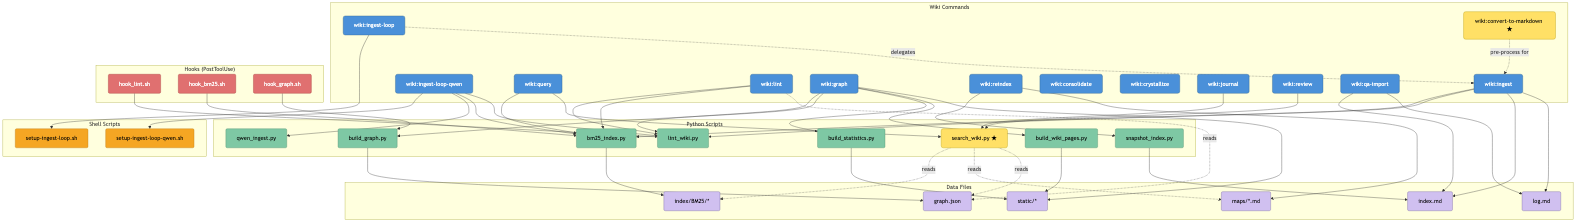
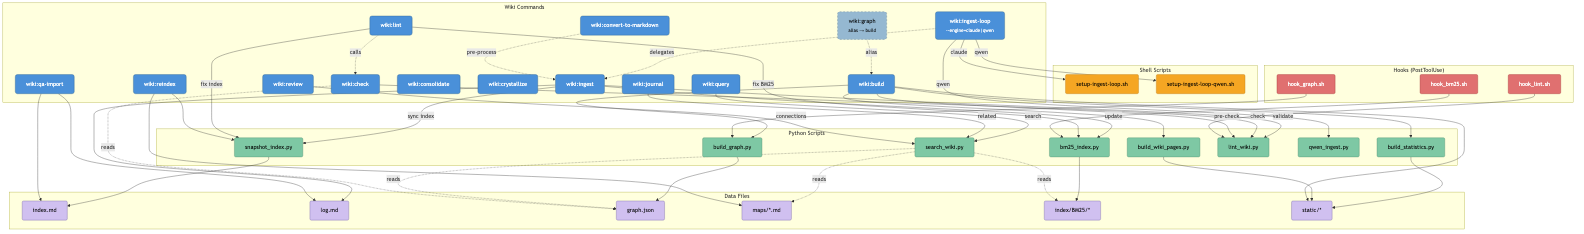
docs: rebuild DAG, update changelog v3.1, refresh wiki.md/README/USERGUIDE
- DAG.mmd + DAG.png rebuilt with check, build, merged ingest-loop, graph alias
- CHANGELOG v3.1 appended
- docs/wiki.md: added check/build sections, merged ingest-loop-qwen into ingest-loop
- README: updated commands table with check, build, merged ingest-loop
- USERGUIDE: comprehensive update with new commands and section renumbering

diff --git a/docs/wiki.md b/docs/wiki.md
@@ -11,12 +11,12 @@
 2. [知识录入命令](#知识录入命令)
    - [wiki:ingest](#wikiingest)
    - [wiki:ingest-loop](#wikiingest-loop)
-   - [wiki:ingest-loop-qwen](#wikiingest-loop-qwen)
 3. [知识查询命令](#知识查询命令)
    - [wiki:query](#wikiquery)
 4. [知识维护命令](#知识维护命令)
+   - [wiki:check](#wikicheck)
    - [wiki:lint](#wikilint)
-   - [wiki:graph](#wikigraph)
+   - [wiki:build](#wikibuild)
    - [wiki:consolidate](#wikiconsolidate)
 5. [知识沉淀命令](#知识沉淀命令)
    - [wiki:crystallize](#wikicrystallize)
@@ -37,12 +37,13 @@
 
 | 命令 | 用途 | 输入 | 主要输出 |
 |------|------|------|----------|
-| `wiki:ingest` | 源材料 → wiki 页面 | 文件路径 / `all` | wiki 页面 + index.md + log.md |
-| `wiki:ingest-loop` | ralph-loop 批量 ingest | 文件夹路径 | 批量 wiki 页面 |
-| `wiki:ingest-loop-qwen` | ralph-loop + Qwen API 批量 | 文件夹路径 | 批量 wiki 页面 |
+| `wiki:ingest` | 源材料 → wiki 页面 | 文件路径 / `all` | wiki 页面 + log.md |
+| `wiki:ingest-loop` | ralph-loop 批量 ingest | `<path> [--engine=qwen]` | 批量 wiki 页面 |
 | `wiki:query` | 统一搜索 (BM25+maps+graph) + 回答 | 问题文本 | 回答 + 可选 synthesis 页面 |
-| `wiki:lint` | 健康检查 A-I 项 | 无 | lint 报告 + 自动修复 |
-| `wiki:graph` | lint + 构建知识图谱 | 无 | graph.json |
+| `wiki:check` | 只读健康诊断 (A-I 项) | 无 | 检查报告（不修改文件） |
+| `wiki:lint` | 健康检查 + 自动修复 | 无 | lint 报告 + 自动修复 |
+| `wiki:build` | 构建所有静态产出 | 无 | graph.json + statistics + wiki HTML |
+| `wiki:graph` | wiki:build 的别名 | 无 | 同 wiki:build |
 | `wiki:consolidate` | 记忆晋升 + 衰减 | `--deep`（可选） | 记忆层更新 |
 | `wiki:crystallize` | 会话 → 结构化摘要 | 主题描述（可选） | working memory + 可选 synthesis |
 | `wiki:journal` | 日记 / 反思 / 判断 | `daily` / `reflection` / `judgment` | journal 文件 |
@@ -179,77 +180,19 @@ State file: .claude/ingest-loop.local.md
 
 ---
 
-### wiki:ingest-loop-qwen
+### Qwen 引擎模式
 
-**用途**：与 `wiki:ingest-loop` 类似，但使用 Qwen3-Plus API（通过 DashScope）代替 Claude 进行知识提取。适用于大批量 ingest 以降低成本。
-
-**输入格式**：
+使用 `--engine=qwen` 切换到 Qwen API 引擎：
 
 ```
-/wiki:ingest-loop-qwen <文件夹路径>
+/wiki:ingest-loop raw/papers --engine=qwen
 ```
 
-**前置条件**：
+> `wiki:ingest-loop-qwen` 是 `wiki:ingest-loop --engine=qwen` 的别名，向后兼容。
 
-- 环境变量 `DASHSCOPE_API_KEY` 已设置
-- 已安装 `openai` Python 包（`pip install openai`）
-- 已安装 `pyyaml` 包
+**Qwen 模式前置条件**：环境变量 `DASHSCOPE_API_KEY` 已设置，已安装 `openai` + `pyyaml`。
 
-**执行流程**：
-
-1. **环境检查** — 验证 `DASHSCOPE_API_KEY` 已设置
-2. **初始化** — 运行 `scripts/setup-ingest-loop-qwen.sh <路径>`，创建状态文件 `.claude/ingest-loop-qwen.local.md`
-3. **循环执行** — 对每个文件调用 `scripts/qwen_ingest.py --raw <源文件> --wiki <目标文件>`：
-   - 读取源文件内容
-   - 调用 Qwen3-Plus API 提取实体/概念，生成结构化 wiki 页面
-   - 对 API 返回的页面执行内置 lint 检查
-   - lint 通过则写入 wiki 文件；存在严重错误则跳过并记录
-4. **完成承诺** — 输出 `<promise>ALL_FILES_INGESTED_QWEN</promise>`
-
-**Qwen API 调用细节**：
-
-- 模型：`qwen3-plus`
-- API 端点：`https://dashscope.aliyuncs.com/compatible-mode/v1`
-- 系统提示词内含完整的 frontmatter 规范和页面结构要求
-- 设置 `enable_thinking: False`
-
-**内置 lint 检查项**：
-
-- frontmatter 必须包含 `type`、`title`、`confidence` 等关键字段
-- `## 概述` 部分必须存在且长度 50-200 字
-- `## 关键内容` 部分必须存在且有实质内容
-- confidence 值必须在 0.0-1.0 范围内
-- 正文中应包含 `[[双链]]`
-
-**输出状态**：
-
-| 状态 | 含义 |
-|------|------|
-| `SUCCESS` | 页面通过所有检查，已写入 |
-| `LINT_WARNING` | 页面已写入，但存在非关键警告 |
-| `ERROR` | 存在严重错误，页面未写入 |
-
-**示例**：
-
-```
-/wiki:ingest-loop-qwen raw/papers
-```
-
-期望输出：
-
-```
-=== Ingest Loop Setup (Qwen API / qwen3-plus) ===
-Source: raw/papers
-Files to process: 5
-Model: qwen3-plus (via DashScope)
-
-[1/5] raw/papers/paper1.md → wiki/concepts/注意力机制.md ... SUCCESS
-[2/5] raw/papers/paper2.md → wiki/entities/Transformer.md ... LINT_WARNING (Overview short: 45 chars)
-[3/5] raw/papers/paper3.md → wiki/concepts/自监督学习.md ... SUCCESS
-...
-
-<promise>ALL_FILES_INGESTED_QWEN</promise>
-```
+**Qwen 模式差异**：使用 `qwen_ingest.py` 调用 Qwen3-Plus API 提取知识，不占用 Claude 上下文，适合大批量处理。
 
 ---
 
@@ -327,9 +270,23 @@ Model: qwen3-plus (via DashScope)
 
 ## 知识维护命令
 
+### wiki:check
+
+**用途**：对知识库进行只读健康诊断（不修改任何文件）。运行全部 A-I 检查项 + 语义检查，生成诊断报告。
+
+**输入格式**：
+
+```
+/wiki:check
+```
+
+无需参数。输出 ERROR / WARNING / INFO 分类报告，但不执行任何修复。适合 CI 或审查场景。
+
+---
+
 ### wiki:lint
 
-**用途**：对知识库进行全面健康检查，自动修复可修复的问题，生成诊断报告。
+**用途**：健康检查 + 自动修复。先调用 `wiki:check` 获取问题清单，然后对可修复项执行自动修复。
 
 **输入格式**：
 
@@ -399,21 +356,23 @@ Lint Report 2026-04-15
 
 ---
 
-### wiki:graph
+### wiki:build
 
-**用途**：先执行 lint 检查，然后构建完整的知识图谱 JSON 文件。输出包含节点、边、连通分量和孤页分析。
+**用途**：构建所有静态产出：graph.json、graph-statistics.json、static/wiki/ HTML 页面。
+
+> 别名：`wiki:graph`（向后兼容）
 
 **输入格式**：
 
 ```
-/wiki:graph
+/wiki:build
 ```
 
 无需参数。
 
 **执行流程**：
 
-1. 先执行 `wiki:lint` 确保数据健康
+1. 先执行 lint 预检查（只读）确保数据健康
 2. 调用 `scripts/build_graph.py` 构建图谱：
    - 第一遍扫描：从所有 wiki 页面的 frontmatter 构建节点（id、label、type、confidence、tags）
    - 第二遍扫描：从 frontmatter `relates_to` 提取带类型的边，从正文 `[[双链]]` 提取 wikilink 边

diff --git a/README.md b/README.md
@@ -25,7 +25,7 @@ graph LR
 
     subgraph "Ingest Engine"
         B1[wiki:ingest]
-        B2[ingest-loop-qwen]
+        B2[ingest-loop --engine=qwen]
     end
 
     subgraph "Wiki Layer"
@@ -133,15 +133,15 @@ All commands are invoked via Claude Code's `wiki:` prefix (e.g. `/wiki:ingest`).
 |---------|-------|-------------|
 | `ingest` | `/wiki:ingest <path>` | 源材料 → wiki 页面，更新 index/log |
 | `query` | `/wiki:query <question>` | BM25 + maps + graph 统一搜索并综合回答 |
-| `lint` | `/wiki:lint` | 检查孤页、矛盾、过期、缺失链接 |
+| `check` | `/wiki:check` | 只读健康诊断（不修改文件） |
+| `lint` | `/wiki:lint` | 健康检查 + 自动修复（调用 check 后修复） |
 | `consolidate` | `/wiki:consolidate` | 记忆晋升 + 置信度衰减 |
 | `crystallize` | `/wiki:crystallize` | 会话探索 → 结构化摘要 |
 | `journal` | `/wiki:journal <type>` | 写日记（daily/reflection/judgment） |
 | `review` | `/wiki:review <scope>` | 分形回顾（weekly/monthly/quarterly） |
 | `qa-import` | `/wiki:qa-import <path>` | QA 数据批量导入 |
-| `ingest-loop` | `bash scripts/setup-ingest-loop.sh <dir>` | Ralph-loop 自动逐文件 ingest |
-| `ingest-loop-qwen` | `bash scripts/setup-ingest-loop-qwen.sh <dir>` | Qwen API 批量 ingest（多页面模式） |
-| `graph` | `python3 scripts/build_graph.py --full` | 构建知识图谱 + 统计 + wiki HTML |
+| `ingest-loop` | `/wiki:ingest-loop <dir> [--engine=qwen]` | Ralph-loop 批量 ingest（默认 Claude，--engine=qwen 用 Qwen API） |
+| `graph / build` | `/wiki:build` | 构建所有静态产出: graph + statistics + wiki HTML |
 | `reindex` | `/wiki:reindex` | 验证 index 完整性 + 生成主题 maps |
 | `convert-to-markdown` | `/wiki:convert-to-markdown [dir]` | markitdown 批量转换 PDF/DOCX → markdown |
 
@@ -149,7 +149,7 @@ All commands are invoked via Claude Code's `wiki:` prefix (e.g. `/wiki:ingest`).
 
 ```
 vault/
-├── .claude/commands/wiki/   # 13 Claude Code commands
+├── .claude/commands/wiki/   # 15 Claude Code commands
 ├── .obsidian/               # Obsidian settings
 ├── _schema/                 # 系统规则 (CLAUDE.md + 类型定义)
 │   ├── CLAUDE.md            # Master schema

diff --git a/docs/CHANGELOG.md b/docs/CHANGELOG.md
@@ -1,5 +1,22 @@
 # Changelog
 
+## [v3.1] - 2026-04-15
+
+### Refactored
+- **lint/check split**: new `wiki:check` (read-only diagnostics), `wiki:lint` now calls check first then repairs
+- **graph → build rename**: new `wiki:build` (builds all static assets), `wiki:graph` is now a thin alias
+- **ingest-loop merge**: `wiki:ingest-loop` now accepts `--engine=qwen` flag, `wiki:ingest-loop-qwen` is a thin alias
+- **index.md as computed artifact**: `wiki:ingest` now calls `snapshot_index.py --update` instead of manual append
+
+### Fixed
+- Memory/wiki boundary rule added to `_schema/CLAUDE.md`: semantic/ = single facts, syntheses/ = cross-topic analyses, no duplication
+- Hooks double-work accepted as-is (idempotent, revisit at 500+ pages)
+
+### Documentation
+- DAG.mmd + DAG.png rebuilt with new command structure (check, build, merged ingest-loop, graph alias)
+- CLAUDE.md (root + vault) updated with new command names
+- `docs/NEXT_STEPS.md`: brainstorming for future improvements with priority matrix
+
 ## [v3.0] - 2026-04-15
 
 ### Added
